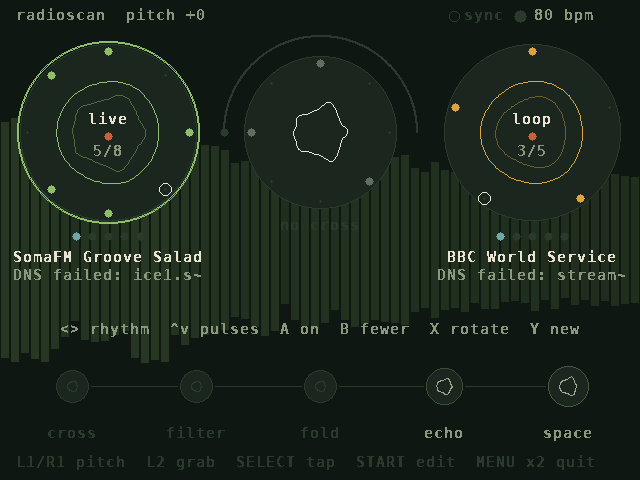
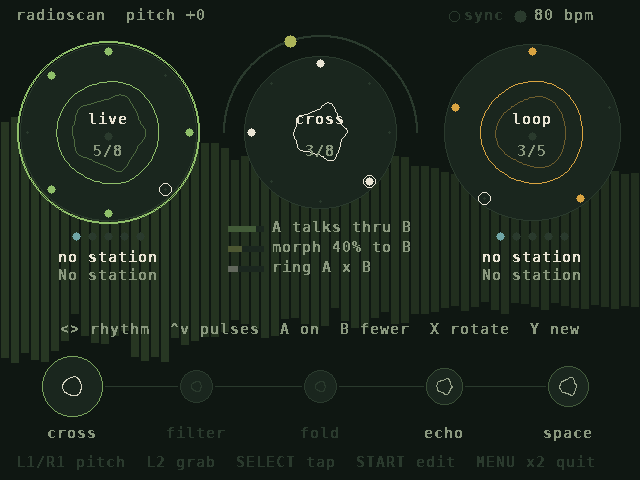
Start/stop for the rhythms; centre spells out what cross-mod is doing
L2 + A on PLAY starts and stops the three Euclidean rhythms; stopped, voices
with a rhythm on are quiet and starting begins on the downbeat. The centre
lists each active cross effect in words with set and current amounts.

Claude-Session: https://claude.ai/code/session_01BCwtH7uky1EgFAH9tziGgi

diff --git a/src/main.c b/src/main.c
@@ -770,10 +770,15 @@ static void draw_toast(void)
 static void draw_beat(int x, int y)
 {
     float ph = synth_beat_phase(syn);
-    disc(x, y + 8, 6, ph < 0.15f ? C_TEXT : C_PANEL2);
     char b[24];
-    snprintf(b, sizeof b, "%.0f bpm", synth_get_param(syn, P_BPM));
-    text(x + 14, y, b, C_DIM, 0);
+    if (synth_running(syn)) {
+        disc(x, y + 8, 6, ph < 0.15f ? C_TEXT : C_PANEL2);
+        snprintf(b, sizeof b, "%.0f bpm", synth_get_param(syn, P_BPM));
+    } else { /* stopped: a square, as on a transport */
+        fill(x - 5, y + 3, 11, 11, C_RUST);
+        snprintf(b, sizeof b, "stopped");
+    }
+    text(x + 14, y, b, synth_running(syn) ? C_DIM : C_RUST, 0);
     if (sc_mode() != SYNC_OFF) { /* Wi-Fi sync: ring = searching, filled = linked */
         const SyncStatus *ss = sync_status();
         const char *t = ss->leading ? "lead" : ss->following ? "follow" : "sync";
@@ -1055,34 +1060,64 @@ static void draw_stages(int x0, int y, int spacing, float rmin, float rmax, int 
     }
 }
 
-/* centre: the final sound with the cross rhythm around it, and the morph position travelling over the top
- * from A (left) to B (right) */
+/* centre: the final sound with the cross rhythm around it, the morph position travelling over the top from
+ * A (left) to B (right), and underneath, in words, what the cross stage is doing to the sound right now */
 static void draw_centre(int cx, int cy)
 {
     const float *p = synth_params(syn);
     int on = (int)p[P_X_GATE_ON];
+    float open = synth_cross_gate(syn) * fminf(p[P_CROSS_LEVEL], 1.0f); /* the cross rhythm and the MIX return */
+    float amount = synth_cross_amount(syn);
     disc(cx, cy, CENTRE_R, C_PANEL);
-    circle(cx, cy, CENTRE_R, mix_col(C_PANEL2, C_TEXT, on ? synth_cross_gate(syn) * synth_cross_amount(syn) : 0));
+    circle(cx, cy, CENTRE_R, mix_col(C_PANEL2, C_TEXT, amount * open));
     draw_bloom(cx, cy, 12, CENTRE_R - 16, CENTRE_R + 20, TAP_OUT, C_TEXT, 0);
     draw_seq_ring(SEQ_X, cx, cy, CENTRE_R - 7);
+    text_center(cx, cy - 20, "cross", amount > 0.01f ? C_TEXT : C_DIM, 0);
+    char t[16];
+    seq_label(SEQ_X, t, sizeof t);
+    text_center(cx, cy + 12, t, on ? C_DIM : C_PANEL2, 0);
+
     float m = p[P_MORPH];
     int ar = CENTRE_R + 20;
     arc(cx, cy, ar, 2, 0.75f, 1.25f, C_PANEL2);
     int mx, my;
     polar(cx, cy, ar, 0.75f + 0.5f * m, &mx, &my);
     disc(mx, my, m > 0.01f ? 6 : 4, m > 0.01f ? mix_col(C_LEAF, C_AMBER, m) : C_PANEL2);
-    char b[48] = "";
+
+    /* one line per active effect: a bar for how much it is applied now, and what it does */
+    struct { float amt, now; Uint32 col; char what[24]; } fx[5];
+    int n = 0;
     int voc = (int)p[P_VOCODE];
-    if (voc) snprintf(b, sizeof b, "vocode %s", voc == VOC_A_TO_B ? "A>B" : "B>A");
-    else if (p[P_FM] > 0.01f) snprintf(b, sizeof b, "fm %s", (int)p[P_FM_DIR] == FM_B_TO_A ? "B>A" : "A>B");
-    else if (p[P_RING] > 0.01f) snprintf(b, sizeof b, "ring");
-    else if (m > 0.01f) snprintf(b, sizeof b, "morph");
-    else if (p[P_CONVERSE] > 0.01f) snprintf(b, sizeof b, "converse");
-    else snprintf(b, sizeof b, "no cross");
-    char t[16];
-    seq_label(SEQ_X, t, sizeof t);
-    text_center(cx, cy + CENTRE_R + 10, b, b[0] == 'n' ? C_PANEL2 : C_DIM, 0);
-    if (on || ui.cell == SEQ_X) text_center(cx, cy + CENTRE_R + 28, t, on ? C_DIM : C_PANEL2, 0);
+    if (voc && p[P_VOCODE_AMT] > 0.01f) {
+        fx[n].amt = p[P_VOCODE_AMT]; fx[n].now = fx[n].amt * open; fx[n].col = voc == VOC_A_TO_B ? C_LEAF : C_AMBER;
+        snprintf(fx[n++].what, sizeof fx[0].what, voc == VOC_A_TO_B ? "A talks thru B" : "B talks thru A");
+    }
+    if (p[P_MORPH] > 0.01f) {
+        fx[n].amt = p[P_MORPH]; fx[n].now = fx[n].amt * open; fx[n].col = mix_col(C_LEAF, C_AMBER, m);
+        snprintf(fx[n++].what, sizeof fx[0].what, "morph %.0f%% to B", m * 100);
+    }
+    if (p[P_FM] > 0.01f) {
+        int ab = (int)p[P_FM_DIR] == FM_A_TO_B;
+        fx[n].amt = p[P_FM]; fx[n].now = fx[n].amt * synth_cross_gate(syn); fx[n].col = ab ? C_LEAF : C_AMBER;
+        snprintf(fx[n++].what, sizeof fx[0].what, ab ? "A bends B pitch" : "B bends A pitch");
+    }
+    if (p[P_RING] > 0.01f) {
+        fx[n].amt = p[P_RING]; fx[n].now = fx[n].amt * open; fx[n].col = C_TEXT;
+        snprintf(fx[n++].what, sizeof fx[0].what, "ring A x B");
+    }
+    if (p[P_CONVERSE] > 0.01f) {
+        int f = synth_floor(syn);
+        fx[n].amt = p[P_CONVERSE]; fx[n].now = fx[n].amt; fx[n].col = f == 1 ? C_AMBER : C_LEAF;
+        snprintf(fx[n++].what, sizeof fx[0].what, "%c talks, %c waits", f == 1 ? 'B' : 'A', f == 1 ? 'A' : 'B');
+    }
+    int y = cy + CENTRE_R + 12, bx = cx - 92;
+    if (n == 0) { text_center(cx, y, "no cross-mod", C_PANEL2, 0); return; }
+    for (int i = 0; i < n && i < 4; i++, y += 20) {
+        fill(bx, y + 6, 36, 6, C_PANEL);
+        fill(bx, y + 6, (int)(36 * fminf(fx[i].amt, 1.0f)), 6, mix_col(C_PANEL, fx[i].col, 0.35f)); /* set */
+        fill(bx, y + 6, (int)(36 * fminf(fx[i].now, 1.0f)), 6, fx[i].col);                          /* now */
+        text(bx + 44, y, fx[i].what, fx[i].now > 0.02f ? C_TEXT : C_DIM, 15);
+    }
 }
 
 static void draw_play(void)
@@ -1120,7 +1155,7 @@ static void draw_play(void)
     draw_stages(72, 386, 124, 16, 34, hl, 1);
 
     const char *hint = ui.held[B_R2] ? "dpad: filter / morph   X B: fold   Y A: space" :
-                       ui.held[B_L2] ? "^v steps  <> rate  Y X length" :
+                       ui.held[B_L2] ? "^v steps  <> rate  Y X length  A start/stop" :
                                        "<> rhythm  ^v pulses  A on  B fewer  X rotate  Y new";
     text_center(320, 322, hint, C_DIM, 0);
     text(16, 455, "L1/R1 pitch  L2 grab  SELECT tap  START edit  MENU x2 quit", C_PANEL2, 0);
@@ -1479,6 +1514,18 @@ static void adjust_param(int id, int dir)
 
 /* ---- rhythm cells on the PLAY page, played like hi5's pattern grid ---- */
 
+/* start / stop the rhythms; starting begins again from the downbeat */
+static void transport_toggle(void)
+{
+    if (sync_status()->following) { toast("the lead unit starts and stops the rhythms"); return; }
+    SDL_LockAudio();
+    int run = !synth_running(syn);
+    if (run) synth_tap_reset(syn);
+    synth_set_running(syn, run);
+    SDL_UnlockAudio();
+    toast(run ? "rhythms playing" : "rhythms stopped (voices with a rhythm are quiet)");
+}
+
 static void cell_say(int q)
 {
     const float *p = synth_params(syn);
@@ -1510,6 +1557,7 @@ static void cell_button(int b)
             int r = SEQ_SHAPE(q, RATE); /* right = faster = a shorter note value */
             synth_set_param(syn, r, synth_get_param(syn, r) + (b == B_RIGHT ? -1 : 1));
         }
+        if (b == B_A) { transport_toggle(); return; }
         if (b == B_X || b == B_Y) {
             int l = SEQ_SHAPE(q, LENGTH);
             synth_set_param(syn, l, synth_get_param(syn, l) + (b == B_X ? 0.05f : -0.05f));

diff --git a/src/dsp.c b/src/dsp.c
@@ -877,7 +877,7 @@ static float euclid_gate(Synth *s, int q, double beat, long *step_abs, int *idx,
         if (*hit) { *flash = 1; *new_hit = 1; }
     }
     if (!on) return 1.0f;
-    if (!*hit) return 0.0f;
+    if (!s->running || !*hit) return 0.0f; /* stopped: a rhythm that is on stays closed */
     float t = (float)(sp - step), len = p[SEQ_SHAPE(q, LENGTH)];
     float att = p[SEQ_SHAPE(q, ATTACK)] * len, min_att = 0.004f / step_s; /* never faster than 4 ms */
     if (att < min_att) att = min_att;

diff --git a/README.md b/README.md
@@ -62,7 +62,9 @@ The PLAY page is for performing: the two rhythms and the sound, live.
   and its colour shows which voice dominates it: leaf green for A, amber for B.
 - **Converse.** The voice holding the floor gets a bright ring.
 - **Centre.** The final sound, with the cross rhythm around it. The dot travelling over the top shows the morph
-  position, from A on the left to B on the right.
+  position, from A on the left to B on the right. Underneath, each active cross effect is spelled out (like
+  *A talks thru B*, *morph 40% to B*, *B bends A pitch*, *A talks, B waits*), with a bar showing its set amount
+  and, brighter, how much of it the cross rhythm and the MIX return let through right now.
 - **Five circles along the bottom:** *cross → filter → fold → echo → space*. Each grows the more it changes
   the sound.
 - **Abstract forms.** Every form is driven by the sound, not drawn as a waveform:
@@ -108,6 +110,7 @@ ring is outlined, and every change shows its pattern briefly, like `A  E(5,8) >2
 | hold L2 + up / down | steps |
 | hold L2 + left / right | rate (right = faster) |
 | hold L2 + Y / X | gate length shorter / longer |
+| hold L2 + A | start / stop the rhythms (stopped, voices with a rhythm on are quiet; start begins on the downbeat) |
 | tap L2 | grab a fresh slice for the selected voice (both voices when the cross rhythm is selected) |
 | hold R2 + D-pad | up/down: filter brighter / darker; left/right: morph toward A / B |
 | hold R2 + X / B | fold more / less |
